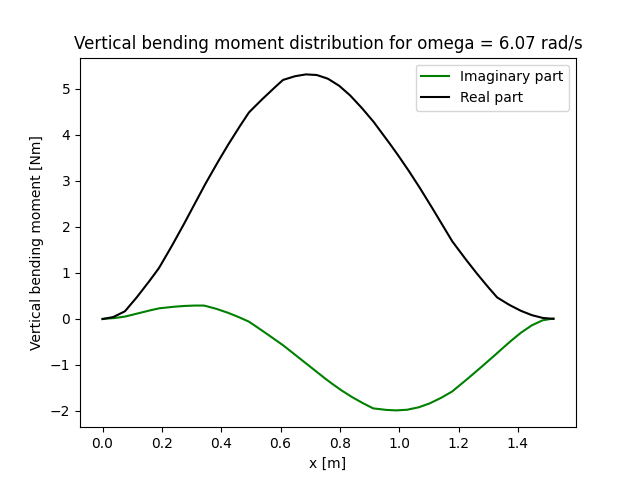
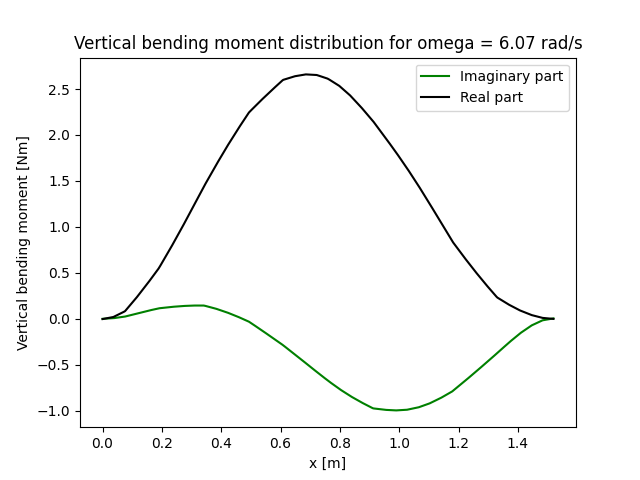
BUGFIX: Capytaine documentation is WRONG, solver uses unit wave AMPLITUDE, not height. Added more frequencies to calculation and plotted heave and pitch RAOs.

diff --git a/containerShipModelModalSolution.py b/containerShipModelModalSolution.py
@@ -50,7 +50,7 @@ shearModulus = youngsModulus / (2 * (1 + 0.22))
 waveHeight = 0.05
 
 waterDepths = np.array([1.8])
-omegas = np.array([4.50, 5.59, 5.81, 6.07, 6.37, 6.71, 7.12, 8.22])
+omegas = np.array([1, 2, 3, 4, 4.50, 5, 5.59, 5.81, 6.07, 6.37, 6.71, 7.12, 7.4, 7.8, 8.22])
 waveDirections = np.array([np.pi])
 
 # mesh resolution
@@ -143,22 +143,27 @@ modalSpringingResults = spr.ModalSpringingResults(dryNaturalFrequenciesSquared, 
 # midships bending moments
 midshipsBendingMoments = np.zeros([omegas.size], dtype = np.complex128)
 midshipsBendingMomentAmplitudes = np.zeros([omegas.size])
+heaveAmplitudes = np.zeros([omegas.size])
+pitchAmplitudes = np.zeros([omegas.size])
 
 for i in range(omegas.size):
-    displacements = waveHeight * dryVibrationModesNormalized @ modalSpringingResults.modalAmplitudes.values[i, 0, :]
+    displacements = waveHeight / 2 * dryVibrationModesNormalized @ modalSpringingResults.modalAmplitudes.values[i, 0, :]
     midshipsBendingMoments[i] = beam.InternalForce(hullLength/2, displacements, 'mv')
     midshipsBendingMomentAmplitudes[i] = np.abs(midshipsBendingMoments[i])
+
+    heaveAmplitudes[i] = np.abs(np.mean(displacements[2::7]))
+    pitchAmplitudes[i] = np.abs(np.mean(displacements[5::7]))
 
 bendingMomentCoefs = midshipsBendingMomentAmplitudes / (waterDensity * gravity * hullLength**2 * hullBreadth * waveHeight/2)
 
 # wavelengths
-wavenumbers = omegas**2 / gravity
-wavelengths = 2 * np.pi / wavenumbers
+wavelengths = hydrodynamicResults.wavelength.values
 
 # bending moment and shear force distributions
-omegaIndex = 3
+omegaPlots = 6.07
+omegaIndex = np.argmin(np.abs(omegas - omegaPlots))
 x = np.linspace(0, hullLength, 500)
-displacements = waveHeight * dryVibrationModesNormalized @ modalSpringingResults.modalAmplitudes.values[omegaIndex, 0, :]
+displacements = waveHeight / 2 * dryVibrationModesNormalized @ modalSpringingResults.modalAmplitudes.values[omegaIndex, 0, :]
 bendingMomentDistribution = beam.InternalForce(x, displacements, 'mv')
 shearForceDistribution = beam.InternalForce(x, displacements, 'sv')
 
@@ -187,9 +192,9 @@ for i in range(omegas.size):
     print('%.2f               %.2f'%(omegas[i], midshipsBendingMomentAmplitudes[i]))
 print()
 
-for i in range(6, 16):
-    animation = hullBody.animate(motion = 'mode%d'%i, loop_duration = 1)
-    animation.run()
+# for i in range(6, 16):
+#     animation = hullBody.animate(motion = 'mode%d'%i, loop_duration = 1)
+#     animation.run()
 
 
 # paper results
@@ -236,6 +241,22 @@ plt.xlabel('Ship length / wavelength')
 plt.ylabel('CM')
 plt.legend()
 plt.savefig('solutions/%dmodes/midshipsBendingMomentCoefs.png'%numberModes)
+
+plt.figure()
+plt.title('Heave RAO')
+plt.plot(hullLength/wavelengths, heaveAmplitudes / (waveHeight / 2), 'ko', label = 'Capytaine Hydroelasticity')
+plt.xlim([0,1.75])
+plt.xlabel('Ship length / wavelength')
+plt.ylabel('Heave RAO [m/m]')
+plt.legend()
+
+plt.figure()
+plt.title('Pitch RAO')
+plt.plot(hullLength/wavelengths, pitchAmplitudes / (waveHeight / wavelengths * np.pi), 'ko', label = 'Capytaine Hydroelasticity')
+plt.xlim([0,1.75])
+plt.xlabel('Ship length / wavelength')
+plt.ylabel('Pitch RAO [rad/rad]')
+plt.legend()
 
 plt.figure()
 plt.title('Vertical bending moment distribution for omega = %.2f rad/s'%omegas[omegaIndex])
